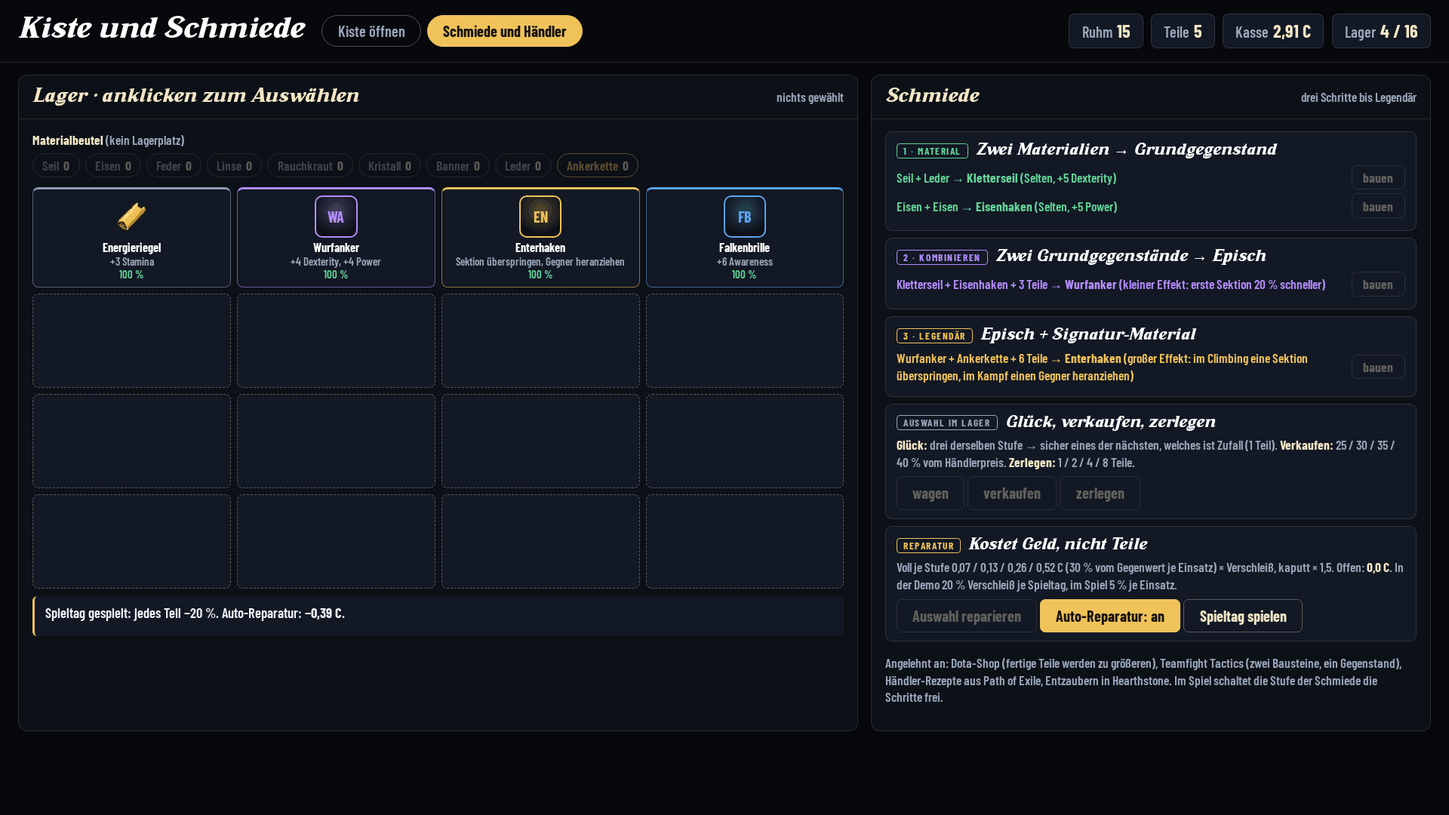
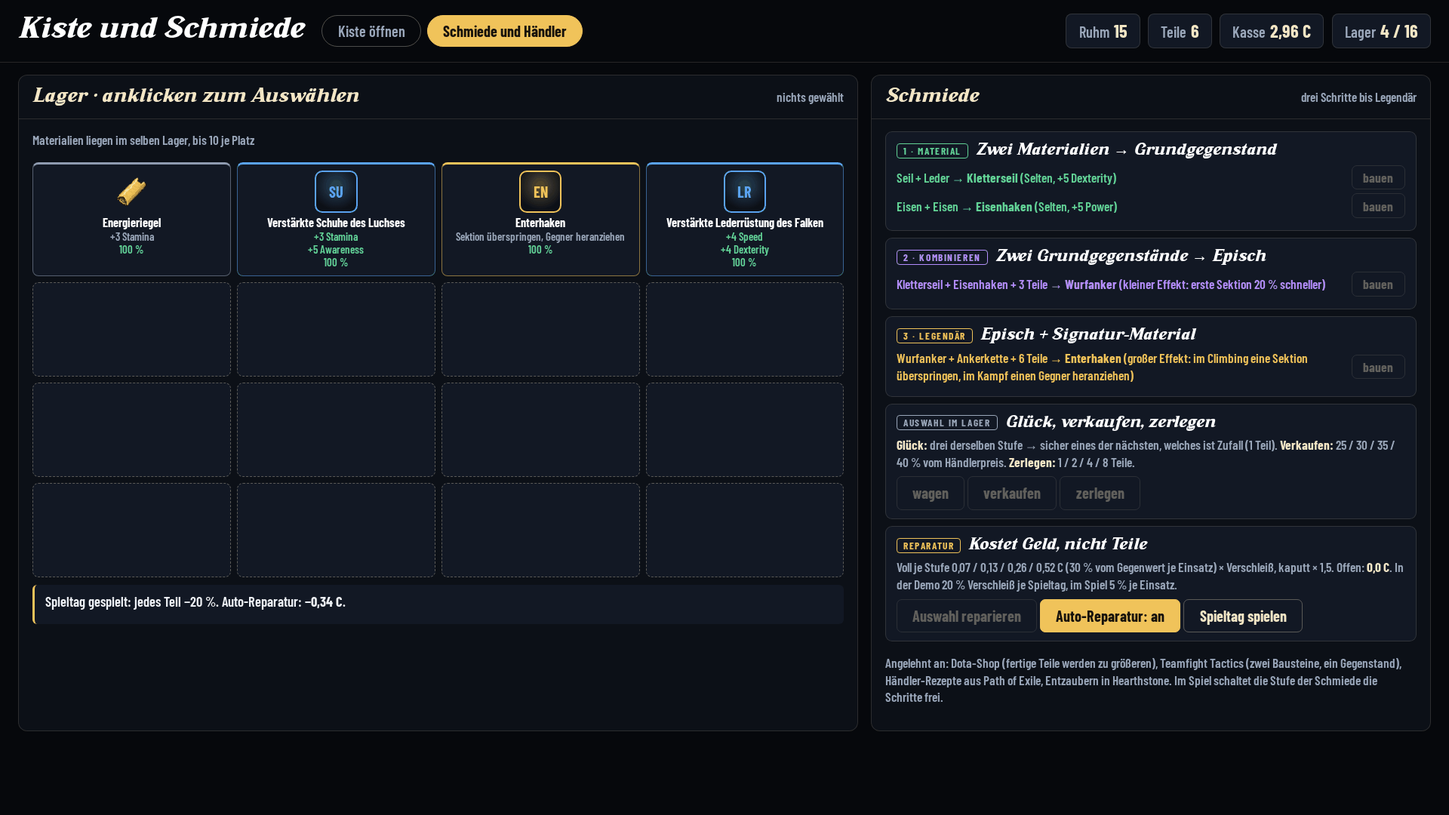
Mockups Runde 11: ein Lager, Gegenstands-Familien, Stufen-Optik, Affixe, Affix-Handwerk
Claude-Session: https://claude.ai/code/session_01UYLNtXkprKr1XK4c3X2xQq

diff --git a/public/mockups/zwischen-den-spieltagen-22-11.html b/public/mockups/zwischen-den-spieltagen-22-11.html
@@ -493,6 +493,29 @@ main{display:grid;grid-template-rows:auto minmax(0,1fr);min-width:0;min-height:0
 .zl.auf{background:linear-gradient(90deg,rgba(240,195,90,.12),transparent)} .zl .null{color:var(--stumm)}
 .zd{display:grid;grid-template-columns:repeat(3,minmax(0,1fr));gap:.6rem;padding:.45rem .5rem .6rem 2.9rem;font-size:.88rem;color:var(--leise);line-height:1.25;background:rgba(240,195,90,.05)} .zd em{display:block;font-style:normal;font-size:.62rem;letter-spacing:.12em;text-transform:uppercase;font-weight:700;margin-bottom:.1rem} .zd b{color:var(--creme)}
 .t3{display:grid;grid-template-columns:8.5rem minmax(0,1fr) minmax(0,1fr);gap:.5rem;padding:.26rem 0;border-top:1px solid var(--linie);font-size:.88rem;color:var(--leise);line-height:1.2} .t3 b{color:var(--creme)} .t3.kopf{border-top:0;font-size:.66rem;letter-spacing:.1em;text-transform:uppercase;font-weight:700;color:var(--stumm)}
+/* RUNDE 11: Familien, Stufen-Optik, Affixe */
+.fm{display:grid;grid-template-columns:minmax(0,1fr) 31rem 27rem;gap:.72rem;padding:.7rem 1rem .8rem;min-height:0}
+.fi{position:relative;width:3.5rem;height:3.5rem;border-radius:.5rem;display:grid;place-items:center;color:var(--sf);border:1px solid var(--sf);background:#0e121a;flex:none;isolation:isolate}
+.fi svg{width:62%;height:62%} .fi .niet{fill:currentColor;stroke:none} .fi .zier{stroke-width:1}
+.fi.s0{opacity:.85;border-style:dashed}
+.fi.s1{border-width:2px;background:radial-gradient(circle at 50% 35%,rgba(90,162,240,.28),#0c1017 75%)}
+.fi.s2{border-width:2px;outline:1px solid var(--sf);outline-offset:.14rem;background:radial-gradient(circle at 50% 35%,rgba(180,140,255,.45),#0c1017 78%);box-shadow:0 0 .7rem rgba(180,140,255,.55)}
+.fi.s3{border-width:2px;outline:2px solid var(--sf);outline-offset:.16rem;color:#fff3c8;background:radial-gradient(circle at 50% 35%,#f0c35a,#6b4a12 70%,#1a1206);box-shadow:0 0 1.1rem rgba(240,195,90,.85)}
+.fi.s3:before{content:"";position:absolute;inset:-45%;z-index:-1;border-radius:50%;background:repeating-conic-gradient(rgba(240,195,90,.5) 0 8deg,transparent 8deg 24deg);-webkit-mask:radial-gradient(closest-side,#000 40%,transparent);mask:radial-gradient(closest-side,#000 40%,transparent);animation:dreh 9s linear infinite}
+@keyframes dreh{to{transform:rotate(360deg)}}
+.fi.kl{width:2.5rem;height:2.5rem;box-shadow:none!important} .fi.kl:before{display:none} .lz>div{gap:.75rem!important}
+.fz2{display:grid;grid-template-columns:13.5rem repeat(4,minmax(0,1fr));gap:.5rem;align-items:center;padding:.3rem 0;border-top:1px solid var(--linie);flex:1;min-height:0} .fz2.kopf{flex:none;border-top:0;font-size:.66rem;letter-spacing:.1em;text-transform:uppercase;font-weight:700;color:var(--stumm)}
+.fz2>div:first-child b{display:block;font:400 1.2rem/1.1 var(--haus);color:#fff} .fz2>div:first-child{font-size:.84rem;color:var(--leise);line-height:1.2} .fz2 .at{color:var(--gut);font-weight:700}
+.fz2 .stf{display:flex;align-items:center;gap:.6rem;font-size:.84rem;color:var(--leise);line-height:1.15;min-width:0} .fz2 .stf b{display:block;color:var(--sf);font-weight:700}
+.poe{border:1px solid var(--sf);border-radius:.4rem;background:#090b11;text-align:center;overflow:hidden;flex:none}
+.poe .kopf{padding:.5rem .6rem .45rem;background:linear-gradient(180deg,color-mix(in srgb,var(--sf) 38%,#090b11),#090b11);border-bottom:1px solid var(--sf)} .poe .kopf b{display:block;font:400 1.45rem/1.1 var(--haus);color:var(--sf)} .poe .kopf small{font-size:.74rem;letter-spacing:.12em;text-transform:uppercase;color:var(--leise);font-weight:700}
+.poe .tl{padding:.4rem .7rem;border-bottom:1px solid var(--linie);font-size:.92rem;color:var(--leise);line-height:1.3} .poe .tl:last-child{border-bottom:0} .poe .tl b{color:var(--creme)}
+.afx{display:block;padding:.12rem .3rem;border-radius:.25rem;font-size:1.08rem;font-weight:700;color:#8fd0ff;cursor:pointer} .afx .minus{color:var(--warn)} .afx.zu{background:rgba(240,195,90,.14);outline:1px solid var(--gold)} .afx.zu:after{content:" · gesperrt";font-size:.7rem;color:var(--gold);letter-spacing:.08em;text-transform:uppercase} .afx.frei{color:var(--stumm);font-weight:400;font-style:italic;cursor:default} .afx.neu2{animation:blink .7s}
+@keyframes blink{0%{background:rgba(143,208,255,.5)}100%{background:transparent}}
+.hw{display:grid;grid-template-columns:minmax(0,1fr) auto;gap:.5rem;align-items:center;padding:.4rem 0;border-top:1px solid var(--linie);font-size:.88rem;color:var(--leise);line-height:1.22} .hw:first-child{border-top:0} .hw b{color:var(--creme)} .hw small{display:block;color:var(--stumm);font-size:.78rem}
+.lz{display:grid;grid-template-columns:repeat(4,minmax(0,1fr));gap:.35rem} .lz>div{height:5.7rem;border-radius:.4rem;border:1px solid var(--linie);background:var(--flaeche-2);display:flex;flex-direction:column;align-items:center;justify-content:center;gap:.5rem;font-size:.7rem;color:var(--creme);text-align:center;line-height:1.05;padding:.15rem;overflow:hidden} .lz>div>span:last-child{position:relative;z-index:2} .lz>div.gew{outline:2px solid var(--gold)} .lz>div.frei{border-style:dashed;background:none}
+.lz .mt{width:2.5rem;height:2.5rem;border-radius:50%;border:1px dashed var(--creme);display:grid;place-items:center;color:var(--creme);font-weight:700;font-size:.82rem} .lz .mt.sg{border-color:var(--gold);color:var(--gold)} .lz .mt.voll{border-style:solid}
+.en3{display:grid;grid-template-columns:repeat(3,minmax(0,1fr));gap:.4rem;flex:1;min-height:0} .en3>div{border:1px solid var(--linie);border-radius:.4rem;padding:.4rem;font-size:.78rem;color:var(--leise);line-height:1.2;text-align:center;display:flex;flex-direction:column;align-items:center;gap:.25rem} .en3 b{color:#fff;font:400 1.02rem/1 var(--haus);margin-top:.7rem;position:relative;z-index:2} .en3>div{padding-top:.8rem!important} .en3 em{font-style:normal;color:var(--gold);font-size:.62rem;letter-spacing:.1em;text-transform:uppercase;font-weight:700}
 /* RUNDE 9: mehrstufiger Baum, Reparatur */
 .bp3{display:grid;grid-template-columns:19.5rem minmax(0,1fr) 27rem;gap:.72rem;padding:.7rem 1rem .8rem;min-height:0}
 .sl2{display:grid;grid-template-columns:1fr 1fr;grid-auto-rows:minmax(0,1fr);gap:.26rem;flex:1;min-height:0}
@@ -560,7 +583,7 @@ function lg(c,k){return '<img class="'+(k||"lg")+'" src="../team-logos/'+c+'.jpg
 function po(s){return '<img class="po" src="../portraits/'+s+'.jpg" alt="">'}
 function kul(d,b){return "../sprites/kulissen/"+d+"/"+b+".jpg"}
 $("rail").innerHTML='<span class="logo"><img src="../team-logos/D-P.jpg" alt=""></span>'+[["haus",A==="woche"],["liste"],["pokal",A==="liga"||A==="lage"],["leute",A==="ausruestung"],["geld"],["post"],["buch",A==="rahmen"]].map(function(r){return '<a class="'+(r[1]?"an":"")+'">'+ic(I[r[0]])+'</a>'}).join("")+'<span class="luecke"></span><a>'+ic(I.zahn)+'</a>';
-$("demoz").innerHTML=[["rahmen","Rahmen"],["nachspiel","Nach dem Spiel"],["woche","Die Woche"],["ausruestung","Ausrüstung"],["team","Team"],["bauplan","Bauplan"],["haken","Enterhaken"],["optik","Optik"],["aufloesung","Auflösung"],["traits","Trait-Ereignisse"],["gebaeude","Gebäude"],["kiste","Kiste öffnen"],["zuruf","Zuruf im Spiel"],["lage","Liga-Lage"],["kabine","Kabine"],["verein","Verein"],["welt","Welt"],["aera","Kader und Ära"],["liga","Ligaformat"]].map(function(z){return '<a class="'+(z[0]===A?"an":"")+'" href="?ansicht='+z[0]+'">'+z[1]+'</a>'}).join("");
+$("demoz").innerHTML=[["rahmen","Rahmen"],["nachspiel","Nach dem Spiel"],["woche","Die Woche"],["ausruestung","Ausrüstung"],["team","Team"],["familien","Familien"],["bauplan","Bauplan"],["haken","Enterhaken"],["optik","Optik"],["aufloesung","Auflösung"],["traits","Trait-Ereignisse"],["gebaeude","Gebäude"],["kiste","Kiste öffnen"],["zuruf","Zuruf im Spiel"],["lage","Liga-Lage"],["kabine","Kabine"],["verein","Verein"],["welt","Welt"],["aera","Kader und Ära"],["liga","Ligaformat"]].map(function(z){return '<a class="'+(z[0]===A?"an":"")+'" href="?ansicht='+z[0]+'">'+z[1]+'</a>'}).join("");
 function hero(o){return '<header class="hero"><div class="kul"><i style="background-image:url('+o.kul[0]+')"></i><i style="background-image:url('+o.kul[1]+')"></i></div><div class="hk"><span class="crest">'+lg("D-P","")+'</span><div><em>'+o.kick+'</em><h1>'+o.titel+'</h1><span class="lage">'+o.lage+'</span></div></div><div class="kpis">'+o.kpi.map(function(k){return '<div class="kpi"><strong class="t">'+k[0]+'</strong><small>'+k[1]+'</small></div>'}).join("")+'</div><div class="cta"><a class="btn haupt">'+o.cta[0]+' '+ic(I.pfeil)+'</a><small>'+o.cta[1]+'</small></div></header>'}
 function pan(st,tit,inh,re,alt){return '<section class="pan" style="'+st+'"><div class="pk"><h2>'+tit+'</h2>'+(alt?"":'<span class="neu">neu</span>')+'<span class="sp"></span>'+(re||"")+'</div><div class="pb">'+inh+'</div></section>'}
 var SF=["var(--s0)","var(--s1)","var(--s2)","var(--s3)"],SN=["Standard","Selten","Episch","Legendär"];
@@ -824,6 +847,40 @@ function bauplan(){
  +pan("","Leitplanken",'<div class="lp"><b>Mehrfach erlaubt:</b> ein Team darf jeden Gegenstand mehrfach besitzen. Nur: ein Spieler trägt denselben Gegenstand nicht zweimal.</div><div class="lp"><b>Einmal je Spiel bleibt.</b> Der Effekt ist ein Moment, kein Dauerbonus; das gehört zum Gegenstand.</div><div class="lp"><b>Kein Budget je Team.</b> Wer die Sachen hat und unterhält, darf sie nutzen. Die Grenze ist der Platz: drei Plätze je Spieler, Lager 16.</div><div class="lp"><b>Gegenmittel bleiben:</b> die Pfeife hebt den ersten großen Effekt auf, Paare kontern sich (Fernglas gegen Rauch).</div><div class="fz"><b>Preis folgt dem Gegenwert,</b> die Effektgröße wird gemessen, bevor sie live geht (Konzept §48, §49). On top, zählt nicht gegen die Schranke 0,75.</div>','<span class="re">Startwerte</span>')
  +'</div></div>'}
 
+/* ======================= RUNDE 11 · FAMILIEN, STUFEN-OPTIK, AFFIXE ======================= */
+var AT=["Power","Health","Determination","Stamina","Speed","Dexterity","Awareness","Intelligence","Will","Charisma","Spirit","Torment"];
+var SUF=["des Bären","des Ochsen","des Dachses","des Wolfs","des Falken","der Katze","des Luchses","der Eule","des Mönchs","des Pfaus","des Phönix","des Henkers"];
+var FG={leder:'<path d="M8 3l4 3 4-3 4 4-3 3v11H7V10L4 7z"/>',platte:'<path d="M6 3h12l2 5-2 3v10H6V11L4 8z"/><path d="M12 3v18M8 13h8"/>',robe:'<path d="M9 3h6l5 18H4z"/><path d="M12 3v18"/>',hand:I.hand,schuh:I.schuh,helm:'<path d="M5 14a7 7 0 0 1 14 0v5H5z"/><path d="M5 14h14M12 7v7"/>',umhang:I.mantel,amulett:'<path d="M6 3l6 8 6-8"/><circle cx="12" cy="15.5" r="4.5"/>',haken:'<path d="M12 3v11a4 4 0 0 1-8 0M12 14a4 4 0 0 0 8 0M9 6h6"/>'};
+/* [Schluessel, Name, Endung fuer Einfach/Verstaerkt/Verziert, bevorzugte Attribute, Material, Name der legendaeren Stufe] */
+var FAM=[["leder","Lederrüstung","e",[5,4],"Leder","Schattenhaut"],["platte","Plattenpanzer","er",[1,0],"Eisen","Bollwerk"],["robe","Robe","e",[7,8],"Rauchkraut","Sternenrobe"],["hand","Handschuhe","e",[0,5],"Leder","Titanenfäuste"],["schuh","Schuhe","e",[4,3],"Feder","Siebenmeiler"],["helm","Helm","er",[6,2],"Linse","Krone der Wachsamkeit"],["umhang","Umhang","er",[9,10],"Banner","Mantel des Phönix"],["amulett","Amulett","es",[8,11],"Kristall","Herz der Qual"]];
+var SW=["Einfach","Verstärkt","Verziert"],AB=[[2,3],[3,5],[4,6],[5,8]];
+function fi(f,st,kl){return '<span class="fi s'+st+(kl?" kl":"")+'" style="--sf:'+SF[st]+'"><svg viewBox="0 0 24 24" fill="none" stroke="currentColor" stroke-width="'+(1.3+st*.25)+'" stroke-linecap="round" stroke-linejoin="round">'+FG[f]+(st>0?'<g class="niet"><circle cx="3" cy="3" r="1"/><circle cx="21" cy="3" r="1"/><circle cx="3" cy="21" r="1"/><circle cx="21" cy="21" r="1"/></g>':"")+(st>1?'<path class="zier" d="M1.5 12l1.5-1.5 1.5 1.5-1.5 1.5zM19.5 12l1.5-1.5 1.5 1.5-1.5 1.5zM12 .8l1.3 1.3-1.3 1.3-1.3-1.3z"/>':"")+'</svg></span>'}
+/* Beispiel im Tooltip: Verzierter Plattenpanzer, Episch, 2 von 3 Affixen. Affix = [Attribut, Wert, Gegen-Attribut, Gegen-Wert] */
+var TT={f:1,st:2,max:3,aff:[[1,6],[1,9,3,-3]],zu:-1,neu:-1};
+var WCL=[.22,.07,.1,.14,.03,.2,.08,.02,.08,0,.03,.03];
+function ttName(){var b=TT.aff.slice().sort(function(a,b){return b[1]-a[1]})[0],F=FAM[TT.f];return SW[TT.st]+F[2]+" "+F[1]+" "+SUF[b[0]]}
+function ttWert(){var w=0;TT.aff.forEach(function(a){w+=a[1]*WCL[a[0]]+(a[2]!==undefined?a[3]*WCL[a[2]]:0)});return w}
+function ttip(){var h=TT.aff.map(function(a,i){return '<span class="afx'+(TT.zu===i?" zu":"")+(TT.neu===i?" neu2":"")+'" data-i="'+i+'">+'+a[1]+' '+AT[a[0]]+(a[2]!==undefined?' <span class="minus">'+String(a[3]).replace("-","−")+' '+AT[a[2]]+'</span>':"")+'</span>'}).join("");
+ for(var i=TT.aff.length;i<TT.max;i++)h+='<span class="afx frei">freier Affix-Platz</span>';var w=ttWert();
+ return '<div class="poe" style="--sf:'+SF[TT.st]+'"><div class="kopf"><b>'+ttName()+'</b><small>'+SN[TT.st]+' · Familie Plattenpanzer · bevorzugt Health, Power</small></div><div class="tl">'+h+'</div><div class="tl"><b style="color:var(--s2)">Kleiner Effekt:</b> der erste Treffer oder Sturz je Spiel kostet 20 % weniger</div><div class="tl">Haltbarkeit <b>85 %</b> · volle Reparatur <b>0,26 C</b> · Händler zahlt <b>0,15 C</b></div><div class="tl">Wert für Zyra im Climbing heute: <b class="'+(w>=0?"plus":"minus")+'">'+(w>=0?"+":"−")+Math.abs(w).toFixed(1).replace(".",",")+'</b> Eignung <small style="color:var(--stumm)">(Summe Affix × Matrixgewicht)</small></div></div>'}
+function wAff(alt){var F=FAM[TT.f],a=Math.random()<.6?F[3][Math.floor(Math.random()*2)]:Math.floor(Math.random()*12),r=AB[TT.st],v=r[0]+Math.floor(Math.random()*(r[1]-r[0]+1));
+ if(Math.random()<.2){var g=(a+1+Math.floor(Math.random()*11))%12;return [a,Math.round(v*1.5),g,-Math.round(v/2)]}return [a,v]}
+function familien(){
+ var LAG=[["platte",2,"Verz. Plattenpanzer",1],["leder",1,"Verst. Lederrüstung"],["hand",0,"Einf. Handschuhe"],["helm",2,"Verz. Helm"],["schuh",1,"Verst. Schuhe"],["umhang",3,"Mantel des Phönix"],["robe",0,"Einfache Robe"],["amulett",1,"Verst. Amulett"],["haken",3,"Enterhaken II"]];
+ var MAT=[["Ei","Eisen",7],["Le","Leder",3],["Se","Seil",1],["Kr","Kristall",10],["Fe","Feder",2]];
+ return hero({kul:[kul("climbing","fels"),kul("hockey","eis")],kick:"Ausrüstung · Familien · Stufen · Affixe",titel:"Gegenstands-Familien",lage:"<b>Acht Familien, vier Stufen, gewürfelte Affixe.</b> Jede Familie bevorzugt zwei Attribute, jede Stufe sieht anders aus und trägt ein Affix mehr · Vorbild Path of Exile und Diablo, aber zahm",
+   kpi:[["8 × 4","Familien × Stufen"],["1–4","Affixe je Stufe"],["12","Attribute"],["16","Lagerplätze"]],cta:["Zur Schmiede","Affix-Handwerk ab Stufe 3",""]})
+ +'<div class="fm">'
+ +pan("","Die Familien",'<div class="fz2 kopf"><span>Familie · bevorzugt</span><span>Standard · 1 Affix</span><span>Selten · 2 Affixe</span><span>Episch · 3 + kleiner Effekt</span><span>Legendär · 4 + großer Effekt</span></div>'+FAM.map(function(F){return '<div class="fz2"><div><b>'+F[1]+'</b><span class="at">'+AT[F[3][0]]+', '+AT[F[3][1]]+'</span> · Material '+F[4]+'</div>'+[0,1,2,3].map(function(st){return '<div class="stf" style="--sf:'+SF[st]+'">'+fi(F[0],st)+'<span><b>'+(st<3?SW[st]+F[2]:F[5])+'</b>'+(st<3?"+"+AB[st][0]+" bis +"+AB[st][1]+" je Affix":"+5 bis +8 je Affix")+'</span></div>'}).join("")+'</div>'}).join("")+'<div class="fz"><b>Bevorzugt</b> heißt: 60 % der Affixe fallen auf diese zwei Attribute, 40 % auf die übrigen zehn. <b>Zweischneidig</b> (20 %): ein Affix ist 1,5-mal so groß und zieht dafür ein anderes Attribut um ein Drittel seines Werts herunter. Icons hier als Skizze; die echten kämen aus PixelLab (32 Stück, nicht bestellt).</div>','<span class="re">Stufe sichtbar an Farbe, Nieten, Verzierung, Leuchten</span>')
+ +'<div style="display:grid;grid-template-rows:auto minmax(0,1fr);gap:.72rem;min-height:0">'
+ +pan("","Der Gegenstand",'<div id="ttip">'+ttip()+'</div>','<span class="re">Affix anklicken = sperren</span>')
+ +pan("","Affix-Handwerk · Schmiede Stufe 3",'<div class="hw"><span><b>Neu würfeln</b> · ein zufälliges, nicht gesperrtes Affix<small>1 Eisen + 2 Teile · 60 % bevorzugtes Attribut · 20 % zweischneidig</small></span><a class="btn klein g" id="aNeu">würfeln</a></div><div class="hw"><span><b>Hinzufügen</b> · nur wenn ein Platz frei ist<small>2 Eisen + 3 Teile · Wert aus dem Bereich der Stufe</small></span><a class="btn klein g" id="aPlus">hinzufügen</a></div><div class="hw"><span><b>Sperren</b> · ein Affix je Gegenstand bleibt beim Würfeln<small>3 Teile · Sperre lösen kostet nichts</small></span><span class="re t" id="aLog">Eisen 7 · Teile 12</span></div><div class="fz"><b>Zahm:</b> kein Affix geht verloren, außer dem, das neu gewürfelt wird. Die Chancen stehen immer da. Das Material ist das der Familie.</div>','<span class="re">anklickbar</span>')
+ +'</div>'
+ +'<div style="display:grid;grid-template-rows:auto minmax(0,1fr);gap:.72rem;min-height:0">'
+ +pan("","Lager · 15 von 16",'<div class="lz">'+LAG.map(function(g){return '<div class="'+(g[3]?"gew":"")+'">'+fi(g[0],g[1],1)+'<span>'+g[2]+'</span></div>'}).join("")+MAT.map(function(m){return '<div><span class="mt'+(m[2]>=10?" voll":"")+'">'+m[0]+'</span><span>'+m[1]+' ×'+m[2]+'</span></div>'}).join("")+'<div><span class="mt sg">An</span><span>Ankerkette ×1</span></div><div class="frei">frei</div></div><div class="fz" style="margin-top:.5rem"><b>Ein Lager für alles.</b> Materialien stapeln bis 10 je Platz, Signatur-Material bis 2. Getragenes zählt nicht mit.</div>','<span class="re">kein Materialbeutel</span>')
+ +pan("","Legendäre wachsen",'<div class="en3">'+[["I","gebaut","Sektion überspringen · Gegner heranziehen",3,""],["II","nach 8 Zündungen + Ankerkette","Effekt +25 % · passiv: erste Sektion 20 % schneller",3,"outline-offset:.3rem"],["III","nach 20 Zündungen + Ankerkette","zieht zwei Gegner · passiv: Verschleiß halbiert",3,"outline-offset:.3rem;box-shadow:0 0 1.6rem #f0c35a,0 0 .5rem #fff"]].map(function(e){return '<div>'+fi("haken",e[3]).replace('style="','style="'+e[4]+';')+'<b>Enterhaken '+e[0]+'</b><em>'+e[1]+'</em>'+e[2]+'</div>'}).join("")+'</div><div class="fz">Der Verlauf zählt die Zündungen. Wer einen Gegenstand lange trägt, macht ihn besser.</div>','<span class="re">I → II → III</span>')
+ +'</div></div>'}
+
 /* ======================= RUNDE 10 · OPTIK AM SPIELER ======================= */
 function optik(){
  var ST=/still=1/.test(location.search);
@@ -921,12 +978,15 @@ function kisteLauf(start){var b=$("buehne");if(!b)return;var ph=$("ph").children
  if(!start){setz(0);return}
  setz(1);kisteT.push(setTimeout(function(){setz(2)},1200));kisteT.push(setTimeout(function(){setz(3)},2000))}
 function zurufUhr(){var z=$("zsek");if(!z)return;var n=8,t=setInterval(function(){n--;z.textContent=Math.max(n,0);if(n<=0){clearInterval(t);$("zgeg").innerHTML='<b style="color:var(--creme)">Franky</b> ruft <b style="color:var(--gold)">Druck</b>. Das 2. Drittel läuft.'}},1000)}
-$("main").innerHTML=({rahmen:rahmen,woche:woche,ausruestung:ausruestung,lage:lage,liga:liga,nachspiel:nachspiel,aera:aera,verein:verein,welt:welt,kiste:kisteA,zuruf:zuruf,kabine:kabine,team:team,bauplan:bauplan,haken:haken,optik:optik,aufloesung:aufloesung,traits:traits,gebaeude:gebaeude}[A]||rahmen)();
+$("main").innerHTML=({rahmen:rahmen,woche:woche,ausruestung:ausruestung,lage:lage,liga:liga,nachspiel:nachspiel,aera:aera,verein:verein,welt:welt,kiste:kisteA,zuruf:zuruf,kabine:kabine,team:team,bauplan:bauplan,haken:haken,optik:optik,familien:familien,aufloesung:aufloesung,traits:traits,gebaeude:gebaeude}[A]||rahmen)();
 kisteLauf();zurufUhr();
 /* Klick-Verhalten der Beispiele */
 var HT=["<b>Eisbad</b> für Zyra, Amarie, Maru: 68 → 56, 66 → 54, 51 → 39","<b>Sondereinheit</b> für Conan: Speed-Schach-Weg +0,4 statt +0,2, Erschöpfung 22 → 28","<b>Fan-Tag:</b> Spieltag 13 ist ein Heimspiel, Stadion 0,6 → 0,75 C, Moral 64 → 67"];
 function arepSum(){var k=0,r=document.querySelectorAll(".rp"),a=$("arep");if(!a)return;if(r.length)r.forEach(function(x){if(x.classList.contains("an"))k+=+x.dataset.k});else k=a.classList.contains("an")?0.0315:0;a.classList.toggle("an",k>0);$("arepS").innerHTML="<b>"+(k*20).toFixed(2).replace(".",",")+" C</b> je Saison<small>"+k.toFixed(2).replace(".",",")+" C je Spieltag</small>"}
 document.addEventListener("click",function(e){
+ var af=e.target.closest(".afx[data-i]");if(af){var ai=+af.dataset.i;TT.zu=TT.zu===ai?-1:ai;TT.neu=-1;$("ttip").innerHTML=ttip();$("aLog").textContent=TT.zu<0?"Sperre gelöst":"gesperrt für 3 Teile";return}
+ if(e.target.closest("#aNeu")){var fr=TT.aff.map(function(a,i){return i}).filter(function(i){return i!==TT.zu});if(!fr.length){$("aLog").textContent="alles gesperrt";return}var wi=fr[Math.floor(Math.random()*fr.length)];TT.aff[wi]=wAff();TT.neu=wi;$("ttip").innerHTML=ttip();$("aLog").textContent="neu gewürfelt: Affix "+(wi+1);return}
+ if(e.target.closest("#aPlus")){if(TT.aff.length>=TT.max){$("aLog").textContent="kein Platz frei";return}TT.aff.push(wAff());TT.neu=TT.aff.length-1;$("ttip").innerHTML=ttip();$("aLog").textContent="Affix hinzugefügt";return}
  var rp=e.target.closest(".rp");if(rp){rp.classList.toggle("an");arepSum();return}
  var ar=e.target.closest(".arep");if(ar){var an=!ar.classList.contains("an");ar.classList.toggle("an",an);document.querySelectorAll(".rp").forEach(function(x){x.classList.toggle("an",an)});arepSum();return}
  if(e.target.closest("#nochmal")){kisteLauf(false);setTimeout(function(){kisteLauf(true)},250);return}

diff --git a/public/mockups/kiste-demo-22-11.html b/public/mockups/kiste-demo-22-11.html
@@ -82,9 +82,9 @@ main{display:grid;grid-template-columns:minmax(0,1.5fr) minmax(0,1fr);gap:.8rem;
 <section class="pan" id="sKiste"><div class="pk"><h2 id="kT">Eisentruhe · 20 Ruhm</h2><small>Klick auf die Kiste · Bewegung ist CSS, Bilder aus PixelLab</small></div>
  <div class="buehne p0" id="buehne"><span class="strahl"></span><div class="fund" id="fund"></div>
   <div class="truhe" id="truhe"><img class="kranz" src="../sprites/beute/lichtkranz.png" alt=""><img class="zu" src="../sprites/beute/kiste-eisen-zu.png" alt="" id="bz"><img class="offen" src="../sprites/beute/kiste-eisen-offen.png" alt=""></div><span class="hinw">Klick auf die Kiste</span></div>
- <div class="leiste"><button class="btn g" id="nochmal">nochmal öffnen</button><span class="klein" id="kText">Drei Funde, Ausrüstung oder Material. Du wählst einen, die zwei anderen werden zu Teilen.</span></div></section>
+ <div class="leiste"><button class="btn g" id="nochmal">nochmal öffnen</button><span class="klein" id="kText">Drei Funde mit gewürfelten Affixen, oder Material. Du wählst einen, die zwei anderen werden zu Teilen.</span></div></section>
 <section class="pan" id="sSchmiede" style="display:none"><div class="pk"><h2>Lager · anklicken zum Auswählen</h2><small id="auswT">nichts gewählt</small></div>
- <div class="pb"><div class="klein" style="margin-bottom:.3rem"><b>Materialbeutel</b> (kein Lagerplatz)</div><div class="mat" id="mat"></div><div class="lager" id="lager"></div><div id="log">Baue den Enterhaken in drei Schritten: Materialien zu zwei Grundgegenständen, die zum Wurfanker, der mit dem Abzeichen zum Enterhaken. Was gerade geht, ist golden umrandet.</div></div></section>
+ <div class="pb"><div class="klein" style="margin-bottom:.3rem">Materialien liegen im selben Lager, bis 10 je Platz</div><div class="mat" id="mat"></div><div class="lager" id="lager"></div><div id="log">Baue den Enterhaken in drei Schritten: Materialien zu zwei Grundgegenständen, die zum Wurfanker, der mit dem Abzeichen zum Enterhaken. Was gerade geht, ist golden umrandet.</div></div></section>
 <aside class="pan"><div class="pk"><h2 id="rT">Chancen der Eisenkiste</h2><small id="rS">je Fund, immer sichtbar</small></div>
  <div class="pb" id="rechts"></div></aside>
 </main>
@@ -105,7 +105,14 @@ function istM(k){return k.charAt(0)==="#"}
 function bild(k){if(istM(k))return '<span class="ic mt">'+MN[k.slice(1)].slice(0,2)+'</span>';var b=K[k][4];return b.length>3?'<span class="ic"><img src="../sprites/beute/'+b+'" alt="" onerror="this.parentNode.className=\'ic sv\';this.parentNode.textContent=\''+K[k][1].slice(0,2)+'\'"></span>':'<span class="ic sv">'+b+'</span>'}
 function zahl(x){return x.toFixed(2).replace(".",",").replace(/0$/,"")}
 function wuerfel(ch){var r=Math.random()*100,s=0;for(var i=0;i<ch.length;i++){s+=ch[i];if(r<s)return i}return ch.length-1}
-function aus(st){var a=NACH[st];return a[Math.floor(Math.random()*a.length)]}
+/* Familien: [Name, Endung, bevorzugte Attribute, Kuerzel]; Affixe je Stufe 1/2/3, Werte je Stufe, 20 % zweischneidig */
+var AT=["Power","Health","Determination","Stamina","Speed","Dexterity","Awareness","Intelligence","Will","Charisma","Spirit","Torment"],SUF=["des Bären","des Ochsen","des Dachses","des Wolfs","des Falken","der Katze","des Luchses","der Eule","des Mönchs","des Pfaus","des Phönix","des Henkers"];
+var FAM=[["Lederrüstung","e",[5,4],"LR"],["Plattenpanzer","er",[1,0],"PP"],["Robe","e",[7,8],"RO"],["Handschuhe","e",[0,5],"HS"],["Schuhe","e",[4,3],"SU"],["Helm","er",[6,2],"HE"],["Umhang","er",[9,10],"UM"],["Amulett","es",[8,11],"AM"]],SW=["Einfach","Verstärkt","Verziert"],AB=[[2,3],[3,5],[4,6]],nr=0;
+function rnd(n){return Math.floor(Math.random()*n)}
+function wurf(st){var F=FAM[rnd(8)],z=[],top=0,ta=0;for(var i=0;i<=st;i++){var a=Math.random()<.6?F[2][rnd(2)]:rnd(12),v=AB[st][0]+rnd(AB[st][1]-AB[st][0]+1),t='<span style="color:#62d394">+'+v+' '+AT[a]+'</span>';
+  if(Math.random()<.2){v=Math.round(v*1.5);t='<span style="color:#62d394">+'+v+' '+AT[a]+'</span> <span style="color:#ff6058">−'+Math.round(v/3)+' '+AT[(a+1+rnd(11))%12]+'</span>'}if(v>top){top=v;ta=a}z.push(t)}
+ var k="g"+(nr++);K[k]=[st,SW[st]+F[1]+" "+F[0]+" "+SUF[ta],z.join("<br>"),(st+1)+(st?" Affixe":" Affix")+(st===2?" · kleiner Effekt":""),F[3]];return k}
+function aus(st){if(st<3)return wurf(st);var a=NACH[st];return a[rnd(a.length)]}
 function m(k){return Z.mat[k]||0}
 /* Haltbarkeit laeuft neben dem Lager mit; Reparatur voll = 0,07/0,13/0,26/0,52 C je Stufe (30 % vom Gegenwert je Einsatz), kaputt x 1,5 */
 function rein(k){Z.lager.push(k);Z.hb.push(100)}
@@ -113,7 +120,9 @@ function raus(i){Z.lager.splice(i,1);Z.hb.splice(i,1)}
 function rkost(i){var f=100-Z.hb[i];return REP[K[Z.lager[i]][0]]*f/100*(f===100?1.5:1)}
 function flick(l){var s=0;l.forEach(function(i){var c=rkost(i);if(c>0&&Z.kasse>=c){Z.kasse-=c;s+=c;Z.hb[i]=100}});return s}
 function alle(){return Z.lager.map(function(k,i){return i})}
-function stand(){$("vr").textContent=Z.ruhm;$("vt").textContent=Z.teile;$("vk").textContent=zahl(Z.kasse)+" C";$("vl").textContent=Z.lager.length+" / 16"}
+function stapel(){return Object.keys(Z.mat).filter(function(k){return Z.mat[k]>0})}
+function belegt(){return Z.lager.length+stapel().length}
+function stand(){$("vr").textContent=Z.ruhm;$("vt").textContent=Z.teile;$("vk").textContent=zahl(Z.kasse)+" C";$("vl").textContent=belegt()+" / 16"}
 /* ---------- Kiste: Material 30, Standard 28, Selten 28, Episch 12, Legendaer 2 ---------- */
 /* Truhen: [Name, Ruhm, Chancen Material/Standard/Selten/Episch/Legendaer/Signatur-Material, Bildfilter, woher] */
 var TR=[["Holz",10,[45,40,13,2,0,0],"sepia(.9) saturate(1.5) hue-rotate(-15deg) brightness(.9)","erster Disziplinsieg des Spieltags oder 10 Ruhm"],["Eisen",20,[30,28,28,12,2,0],"","20 Ruhm, Wochenziel, Wimpel"],["Gold",45,[15,10,35,28,7,5],"sepia(1) saturate(3.2) brightness(1.2)","Derby-Sieg, Saisonziel, Platz 1 bis 3; für Ruhm höchstens eine je fünf Spieltage"]],tr=1,CH=TR[1][2],CN=["Material","Standard","Selten","Episch","Legendär","Signatur-Material"],CF=["#f4e6c4"].concat(SF,["#ff9ad5"]),T=[];
@@ -124,7 +133,7 @@ function oeffne(){if(Z.offen)return;if(Z.ruhm<TR[tr][1]){Z.ruhm+=60;$("kText").i
  $("fund").innerHTML=Z.funde.map(function(k,i){var M=istM(k);return '<div class="fk" style="--sf:'+(M?"#f4e6c4":SF[K[k][0]])+'" data-i="'+i+'">'+bild(k)+'<em>'+(k==="#abz"?"Signatur-Material":M?"Material":SN[K[k][0]])+'</em><b>'+(M?MN[k.slice(1)]:K[k][1])+'</b><strong>'+(M?"zum Schmieden":K[k][2])+'</strong><small>'+(M?"kommt in den Beutel":K[k][3])+'</small></div>'}).join("");
  stand();rechtsKiste();setz(1);T.push(setTimeout(function(){setz(2)},1200));T.push(setTimeout(function(){setz(3);$("kText").innerHTML="Wähle <b>einen</b> Fund. Das Licht hat die beste Stufe verraten: <b style='color:"+SF[top]+"'>"+SN[top]+"</b>."},2000))}
 function nimm(i){if(!Z.offen||Z.funde.length<3)return;var k=Z.funde[i],t=0;Z.funde.forEach(function(f,j){if(j!==i)t+=istM(f)?1:TEILE[K[f][0]]});
- if(istM(k))Z.mat[k.slice(1)]=m(k.slice(1))+1;else if(Z.lager.length<16)rein(k);else t+=TEILE[K[k][0]];Z.teile+=t;Z.funde=[];
+ if(istM(k)){var mk=k.slice(1);if(m(mk)<10&&(m(mk)||belegt()<16))Z.mat[mk]=m(mk)+1;else t+=1}else if(belegt()<16)rein(k);else t+=TEILE[K[k][0]];Z.teile+=t;Z.funde=[];
  document.querySelectorAll(".fk").forEach(function(e,j){e.classList.add(j===i?"gew":"weg")});
  $("kText").innerHTML="<b>"+(istM(k)?MN[k.slice(1)]+"</b> liegt im Materialbeutel":K[k][1]+"</b> liegt im Lager")+". Die zwei anderen wurden zu <b>"+t+" Teilen</b>.";stand()}
 function neu(){T.forEach(clearTimeout);T=[];Z.offen=false;Z.funde=[];$("fund").innerHTML="";setz(0);$("kText").textContent="Drei Funde, Ausrüstung oder Material. Du wählst einen, die zwei anderen werden zu Teilen."}
@@ -155,10 +164,9 @@ function rezepte(){var g=gew(),n=g.length,st=n?K[g[0]][0]:0,gleich=n===3&&K[g[1]
 function weg(){Z.ausw.sort(function(a,b){return b-a}).forEach(function(i){raus(i)});Z.ausw=[]}
 function sag(t){$("log").innerHTML=t;zeig()}
 var R={};
-function zeig(){stand();var h="";for(var i=0;i<16;i++){var k=Z.lager[i];h+=k?'<div class="it'+(Z.ausw.indexOf(i)>=0?" gew":"")+'" style="--sf:'+SF[K[k][0]]+'" data-l="'+i+'">'+bild(k)+'<b>'+K[k][1]+'</b>'+K[k][2]+'<br><span style="color:'+(Z.hb[i]>50?"var(--gruen,#62d394)":Z.hb[i]>0?"#f3b54a":"#ff6058")+'">'+(Z.hb[i]?Z.hb[i]+" %":"kaputt")+'</span></div>':'<div class="it frei"></div>'}
+function zeig(){stand();var h="",S=stapel();for(var i=0;i<16;i++){var k=Z.lager[i],mi=i-Z.lager.length;if(!k&&mi<S.length){h+='<div class="it" style="--sf:'+(S[mi]==="abz"?"#f0c35a":"#f4e6c4")+'">'+bild("#"+S[mi])+'<b>'+MN[S[mi]]+'</b>Material × '+m(S[mi])+'</div>';continue}h+=k?'<div class="it'+(Z.ausw.indexOf(i)>=0?" gew":"")+'" style="--sf:'+SF[K[k][0]]+'" data-l="'+i+'">'+bild(k)+'<b>'+K[k][1]+'</b>'+K[k][2]+'<br><span style="color:'+(Z.hb[i]>50?"var(--gruen,#62d394)":Z.hb[i]>0?"#f3b54a":"#ff6058")+'">'+(Z.hb[i]?Z.hb[i]+" %":"kaputt")+'</span></div>':'<div class="it frei"></div>'}
  $("lager").innerHTML=h;$("auswT").textContent=Z.ausw.length?Z.ausw.length+" gewählt":"nichts gewählt";
- $("mat").innerHTML=MK.map(function(k){return '<span class="'+(m(k)?"":"null")+'">'+MN[k]+'<b>'+m(k)+'</b></span>'}).join("")+'<span class="sig'+(m("abz")?"":" null")+'">'+MN.abz+'<b>'+m("abz")+'</b></span>';
- R=rezepte();$("rT").textContent="Schmiede";$("rS").textContent="drei Schritte bis Legendär";$("rechts").innerHTML=R.h}
+ $("mat").innerHTML="";R=rezepte();$("rT").textContent="Schmiede";$("rS").textContent="drei Schritte bis Legendär";$("rechts").innerHTML=R.h}
 function tab(n){$("t0").className=n?"":"an";$("t1").className=n?"an":"";$("sKiste").style.display=n?"none":"";$("sSchmiede").style.display=n?"":"none";if(n)zeig();else rechtsKiste()}
 document.addEventListener("click",function(e){var t=e.target;
  if(t.id==="t0")return tab(0);if(t.id==="t1")return tab(1);

diff --git a/docs/design/zwischen-den-spieltagen-22-11.md b/docs/design/zwischen-den-spieltagen-22-11.md
@@ -1788,3 +1788,129 @@ kleiner Kanal über Form, Moral und Erschöpfung.
   3. Zwei gleiche Legendäre in einer Aufstellung zünden beide. Die Messung prüft, ob das zu stark ist (Grenze 1,8-fach).
   4. Goldtruhe für Ruhm höchstens eine je fünf Spieltage: zu streng?
   5. Trait-Ereignisse: Größe ±2 % richtig, und soll „Transfergerüchte“ wirklich auf Gehaltsforderungen durchschlagen?
+
+---
+
+# Runde 11 (22.11.): Ein Lager, Gegenstands-Familien, Stufen-Optik, Affixe
+
+**Entschieden von Chris:** Lager 16 Plätze, kein eigener Materialbeutel. Zwei gleiche Legendäre wirken beide. Goldtruhe für
+Ruhm höchstens alle fünf Spieltage. Das ersetzt den Materialbeutel aus §41 und §50.
+
+## 58. Ein Lager für alles
+
+- **16 Plätze** für Ausrüstung **und** Materialien. Getragenes zählt nicht mit.
+- **Materialien stapeln bis 10 je Platz**, Signatur-Material bis 2 je Platz. Ein elfter Fund derselben Sorte wird zu
+  einem Teil. Acht Materialsorten können also bis zu acht Plätze binden: wer alles hortet, hat kaum Platz für Ausrüstung.
+- Volles Lager: ein Fund muss getauscht, verkauft oder zerlegt werden (bei Abwesenden und KI das wertloseste Teil).
+
+## 59. Acht Familien
+
+Die Attribute sind die zwölf aus `lib/player-generator/official-discipline-weights.ts` (`playerGeneratorAttributeKeys`):
+power, health, determination, stamina, speed, dexterity, awareness, intelligence, will, charisma, spirit, torment.
+Jede Familie bevorzugt zwei davon; zusammen decken sie alle zwölf ab.
+
+| Familie | bevorzugt | Material | Standard | Selten | Episch | Legendär |
+|---|---|---|---|---|---|---|
+| Lederrüstung | Dexterity, Speed | Leder | Einfache | Verstärkte | Verzierte | Schattenhaut |
+| Plattenpanzer | Health, Power | Eisen | Einfacher | Verstärkter | Verzierter | Bollwerk |
+| Robe | Intelligence, Will | Rauchkraut | Einfache | Verstärkte | Verzierte | Sternenrobe |
+| Handschuhe | Power, Dexterity | Leder | Einfache | Verstärkte | Verzierte | Titanenfäuste |
+| Schuhe | Speed, Stamina | Feder | Einfache | Verstärkte | Verzierte | Siebenmeiler |
+| Helm | Awareness, Determination | Linse | Einfacher | Verstärkter | Verzierter | Krone der Wachsamkeit |
+| Umhang | Charisma, Spirit | Banner | Einfacher | Verstärkter | Verzierter | Mantel des Phönix |
+| Amulett | Will, Torment | Kristall | Einfaches | Verstärktes | Verziertes | Herz der Qual |
+
+- **Bevorzugt** heißt: 60 % der Affixe fallen auf die zwei Attribute der Familie, 40 % auf die übrigen zehn.
+- **Kein Körperplatz-Zwang:** es bleibt bei zwei Ausrüstungsplätzen und einem Verbrauch je Spieler. Zwei Teile derselben
+  Familie am selben Spieler sind erlaubt, solange es nicht derselbe Gegenstand ist (Frage 2 unten).
+- Die Bauteile der Schmiede (Kletterseil, Eisenhaken …) und die 15 Legendären mit großem Effekt bleiben eigene, feste
+  Gegenstände; die Familien sind die gewöhnliche Ausrüstung aus Truhen und vom Händler.
+
+## 60. Stufen sehen anders aus
+
+| Stufe | Icon | Affixe | Wert je Affix | dazu |
+|---|---|---:|---:|---|
+| Standard | schlicht, gestrichelter Rand, grau | 1 | +2 bis +3 | – |
+| Selten | blauer Rand, Nieten in den Ecken | 2 | +3 bis +5 | – |
+| Episch | lila, doppelter Rand, Verzierung, leichtes Leuchten | 3 | +4 bis +6 | kleiner Effekt |
+| Legendär | gold, eigener Name, Strahlenkranz, starkes Leuchten | 4 | +5 bis +8 | großer Effekt |
+
+Die Stufen-Optik gilt für Lager, Ausrüstung, Vorraum-Karte und Truhe. In der Arena bleibt es beim Aufleuchten im Moment
+des Einsatzes. Im Mockup sind die Icons Skizzen aus Linien; die echten kämen aus PixelLab (§64).
+
+## 61. Affixe
+
+- **Aufbau:** ein Affix ist `+X auf ein Attribut`. Es läuft wie jeder Bonus durch die Matrix in die Eignung.
+- **Zweischneidig (20 % je Affix):** das Affix ist 1,5-mal so groß und zieht dafür ein anderes Attribut um ein Drittel
+  seines Werts herunter. Beispiel Episch: `+9 Health, −3 Stamina` statt `+6 Health`. Im Tooltip steht Positives grün,
+  Negatives rot.
+- **Eingeschränkt (15 % je Affix, ab Selten):** „nur in POW-Disziplinen“ oder „nur im Climbing“, dafür 1,5-mal so groß.
+  Damit gehen die drei Arten aus §19 (Disziplin, Farbe, allgemein) in den Affixen auf.
+- **Pflege-Affixe (10 %, ab Selten, zählen als Affix):** Robust (Verschleiß halbiert), Pflegeleicht (Reparatur −30 %),
+  Leicht (Erschöpfung −5 % in Einsätzen mit dem Teil).
+- **Name:** Stufenwort + Familie + Beiname nach dem größten Affix: „Verzierter Plattenpanzer des Ochsen“. Beinamen:
+  Power des Bären, Health des Ochsen, Determination des Dachses, Stamina des Wolfs, Speed des Falken, Dexterity der Katze,
+  Awareness des Luchses, Intelligence der Eule, Will des Mönchs, Charisma des Pfaus, Spirit des Phönix, Torment des
+  Henkers. Legendäre tragen ihren eigenen Namen.
+- **Würfeln:** beim Fund und beim Bauen, einmal, mit der Saat des Spielstands (kein Neuladen für bessere Werte). Ein Fund
+  kann mit einem Affix weniger als dem Höchstwert kommen (30 %), dann ist ein Platz frei für das Handwerk.
+- **Gegenwert:** die Summe der Affixe je Stufe ist so gewählt, dass der Mehrertrag im Korridor aus §48/§49 landen soll
+  (Standard rund +3, Selten +8, Episch +15, Legendär +26 Attributpunkte). Gemessen ist das nicht; der Messplan aus §49
+  bekommt je Stufe eine Zelle „typischer Wurf“ und eine Zelle „bester Wurf“.
+
+## 62. Legendäre wachsen über Stufen
+
+Die 15 Legendären mit großem Effekt haben drei Ausbaustufen. Beispiel Enterhaken:
+
+| Stufe | Bedingung | großer Effekt | passiv | Icon |
+|---|---|---|---|---|
+| I | gebaut (§42) | Sektion überspringen · einen Gegner heranziehen | – | gold |
+| II | 8 Zündungen + eine Ankerkette + 8 Teile | Wirkung +25 % (kürzere Flugzeit, mehr Schaden nach dem Zug) | erste Sektion 20 % schneller | gold, doppelter Rand |
+| III | 20 Zündungen + eine Ankerkette + 12 Teile | zieht zwei Gegner, auch in der letzten Sektion erlaubt | Verschleiß halbiert | gold, weißes Leuchten |
+
+- Die Zündungen zählt der Verlauf aus §54. Wer einen Gegenstand lange trägt, macht ihn besser; ein gekaufter oder
+  gefundener startet bei I.
+- Jede Stufe bewegt den Gegenwert und damit Reparatur und Preis (§48); II und III werden wie eigene Gegenstände gemessen.
+
+## 63. Affix-Handwerk in der Schmiede
+
+Ab Schmiede Stufe 3. Bezahlt wird mit dem Material der Familie und mit Teilen. Die Chancen stehen immer daneben.
+
+| Handgriff | was passiert | Kosten |
+|---|---|---|
+| **Neu würfeln** | ein zufälliges, nicht gesperrtes Affix wird ersetzt (60 % bevorzugtes Attribut, 20 % zweischneidig) | 1 Material + 2 Teile |
+| **Hinzufügen** | ein neues Affix, nur wenn ein Platz frei ist | 2 Material + 3 Teile |
+| **Sperren** | ein Affix je Gegenstand bleibt beim Würfeln erhalten; lösen kostet nichts | 3 Teile |
+
+- **Zahm:** nichts geht verloren außer dem einen Affix, das neu gewürfelt wird. Kein Zerstören, kein Stufenwechsel.
+- Der große und der kleine Effekt sind keine Affixe und lassen sich nicht würfeln.
+- KI: würfelt nur, wenn ein getragenes Teil ein Affix auf einem Attribut hat, das für den Träger in keiner seiner drei
+  besten Disziplinen zählt, und sperrt vorher das beste Affix. Höchstens ein Wurf je Spieltag.
+
+## 64. Auto-Ausrüsten, KI, PixelLab
+
+- **Bewertung, eine Summe:** `Wert(Teil, Spieler, Disziplin) = Summe über die Affixe (Wert × Matrixgewicht des Attributs
+  in der Disziplin)`, negative Affixe ziehen ab, eingeschränkte zählen nur in ihren Disziplinen. Dazu ein fester Zuschlag
+  für Effekte, wo sie wirken (klein 2, groß 5). Summiert über die zwei Disziplinen des Spieltags; danach die gierige
+  Zuteilung aus §55. Höchstens 58 Teile × 12 Spieler × 4 Affixe × 2 Disziplinen je Team, keine Suche.
+- Derselbe Wert steht im Tooltip („Wert für Zyra im Climbing heute“), sortiert das Lager und entscheidet bei der KI über
+  Verkaufen und Zerlegen.
+- **PixelLab-Schätzung (nichts bestellt):** 8 Familien × 4 Stufen = 32 Icons; 15 Legendäre × 3 Stufen = 45; 8 Materialien
+  und rund 6 Signatur-Materialien = 14. Zusammen 91, mit Fehlversuchen rund 105 Generationen (ein Bild = eine Generation,
+  wie in der Stilprobe). Verfügbar über der Reserve sind 156. Mit den Requisiten aus §53 (25 bis 40) wäre das Guthaben
+  damit fast aufgebraucht. Sparweg: Legendäre II und III als Code-Verzierung desselben Icons (Rand, Leuchten), dann 61
+  statt 91.
+
+## 65. Im Mockup, in der Demo, offen
+
+- `?ansicht=familien`: Familien-Tafel mit vier Stufen nebeneinander, Tooltip im PoE-Stil (Affix anklicken sperrt,
+  „würfeln“ und „hinzufügen“ arbeiten wirklich, Name und Wert rechnen mit), Lager mit 16 Plätzen samt Material-Stapeln,
+  Enterhaken I bis III.
+- Demo `public/mockups/kiste-demo-22-11.html` (27 KB): Funde aus Truhen sind Familien-Teile mit gewürfelten Affixen und
+  gebildetem Namen; Materialien liegen als Stapel im selben Lager und zählen zu den 16 Plätzen.
+- **Offen:**
+  1. Affix-Werte und die Quoten (60 % bevorzugt, 20 % zweischneidig, 15 % eingeschränkt): Startwerte, bis gemessen.
+  2. Zwei Teile derselben Familie an einem Spieler (zwei Plattenpanzer): erlaubt lassen oder „höchstens eines je
+     Familie“?
+  3. Legendäre II und III über Zündungen: gewünscht, oder lieber nur über Material?
+  4. Icons: volle 91 Generationen oder der Sparweg mit 61?
